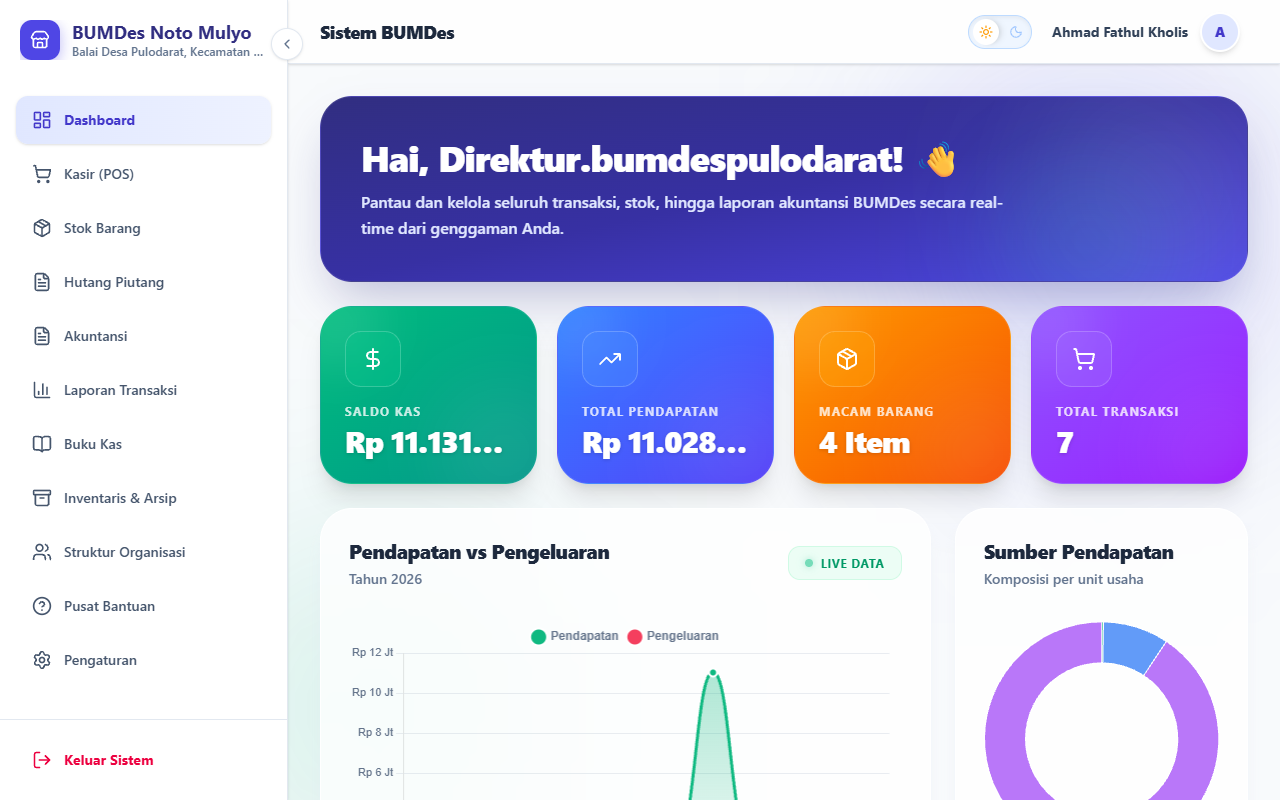
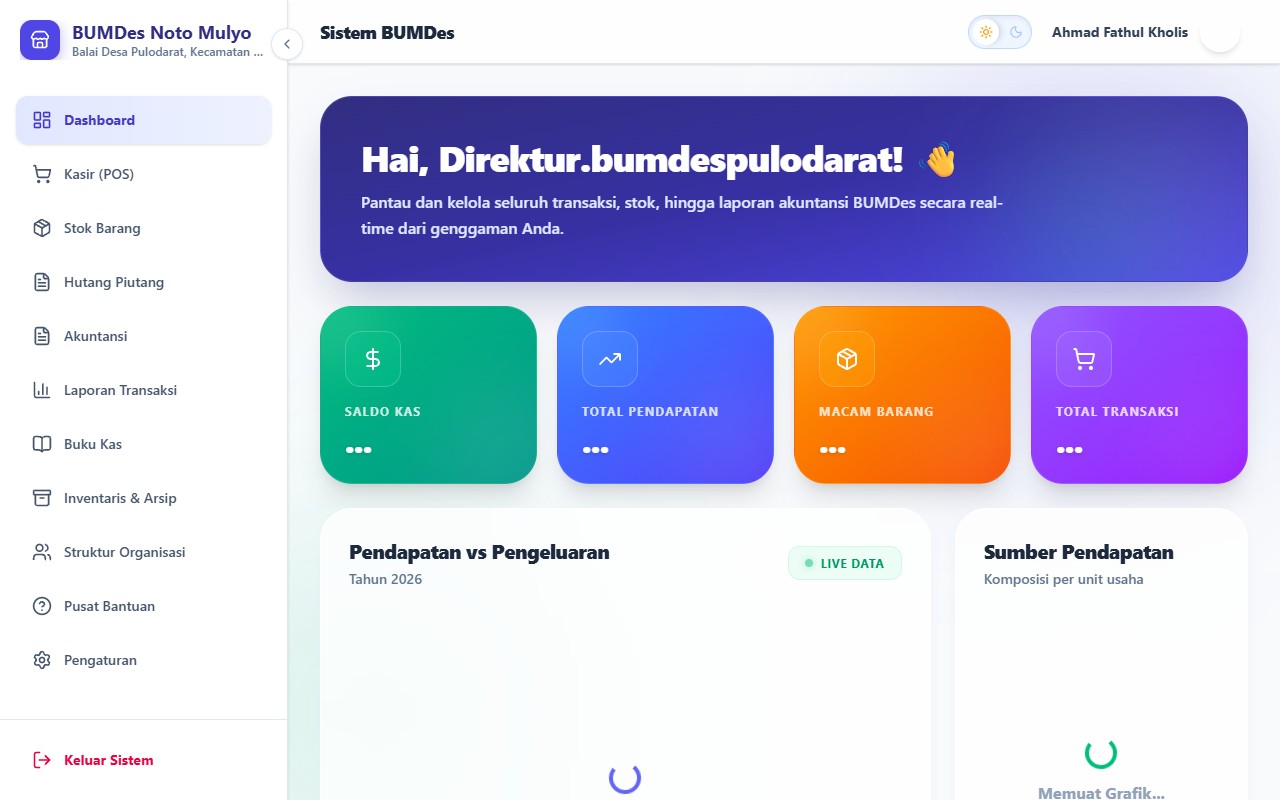
docs: sync readme and buku panduan with new profile features

diff --git a/src/pages/BukuPanduan.tsx b/src/pages/BukuPanduan.tsx
@@ -388,6 +388,31 @@ export default function BukuPanduan() {
         },
         { text: '', pageBreak: 'after' },
 
+        // BAB 8
+        { text: 'BAB 8 - PROFIL PENGGUNA & AVATAR', style: 'h1', tocItem: true },
+        
+        { text: '1. Mengatur Profil & Detail Akun', style: 'h2' },
+        { text: 'Setiap pengurus memiliki kebebasan untuk memperbarui data diri masing-masing agar sistem selalu up-to-date dan akurat.', style: 'paragraph' },
+        {
+          ol: [
+            { text: 'Klik foto profil (atau inisial nama) Anda di pojok kanan atas layar.', style: 'listItem' },
+            { text: 'Pilih menu "Profil Saya".', style: 'listItem' },
+            { text: 'Anda dapat memperbarui Nama, Email, Nomor Telepon/WhatsApp, Pendidikan Terakhir, hingga NIK KTP dan Jabatan Spesifik.', style: 'listItem' },
+            { text: 'Klik "Simpan Profil" di bagian bawah layar. Perubahan ini akan otomatis tersinkronisasi dengan menu Pengaturan dan Struktur Organisasi.', style: 'listItem' }
+          ]
+        },
+
+        { text: '2. Mengganti Foto Profil (Avatar)', style: 'h2' },
+        {
+          ol: [
+            { text: 'Di halaman Profil Saya, arahkan kursor (mouse) ke arah foto profil Anda yang berbentuk bulat.', style: 'listItem' },
+            { text: 'Klik ikon Kamera yang muncul.', style: 'listItem' },
+            { text: 'Pilih foto terbaik Anda dari komputer atau HP (Maksimal 2MB).', style: 'listItem' },
+            { text: 'Foto akan otomatis diunggah dan langsung tampil di seluruh sistem (termasuk di Bagan Struktur Organisasi).', style: 'listItem' }
+          ]
+        },
+        { text: '', pageBreak: 'after' },
+
         // GLOSARIUM & FAQ
         { text: 'GLOSARIUM (Kamus Istilah Singkat)', style: 'h1', tocItem: true },
         {

diff --git a/README.md b/README.md
@@ -64,7 +64,12 @@ Terintegrasi secara penuh dengan **Chart of Accounts (COA) 5-Level** standar BUM
 - **Notulen Rapat:** Pencatatan absensi peserta rapat, agenda, dan keputusan akhir secara digital.
 - **Dokumentasi Kegiatan:** Pengarsipan galeri foto dan rekap acara BUMDes.
 
-### 👥 8. Struktur Organisasi & Hak Akses Bertingkat (RBAC)
+### 👤 8. Profil Pengguna & Avatar Dinamis
+- **Manajemen Akun Mandiri:** Setiap pengurus bisa memperbarui detail kontak, pendidikan, NIK KTP, dan jabatan spesifik.
+- **Unggah Foto Profil (Cloud Storage):** Avatar pengguna yang diunggah akan tersimpan aman di sistem *Cloud* dan tersinkronisasi.
+- **Integrasi Bagan Organisasi:** Foto profil akan otomatis tampil pada bagan Struktur Organisasi, membuatnya lebih interaktif dan humanis.
+
+### 👥 9. Struktur Organisasi & Hak Akses Bertingkat (RBAC)
 - **Visualisasi Struktur Organisasi (Org Chart):** Tampilan hierarki cantik dari Direktur hingga staf lapis bawah secara otomatis.
 - **Manajemen Multi-User & Role Khusus:**
   - `Admin/Direktur/Bendahara`: Akses penuh pengeditan (*Superuser*).
@@ -77,7 +82,7 @@ Terintegrasi secara penuh dengan **Chart of Accounts (COA) 5-Level** standar BUM
   - Karyawan: `karyawan.bumdespulodarat@gmail.com`
   - Pengawas: `pengawas.bumdespulodarat@gmail.com`
 
-### 📖 9. Buku Panduan (SOP) Digital
+### 📖 10. Buku Panduan (SOP) Digital
 - **Built-in FAQ:** Jawaban untuk pertanyaan umum (troubleshooting dasar) tersedia langsung di dalam aplikasi.
 - **Buku Panduan PDF:** Unduh otomatis *SOP (Standard Operating Procedure)* menjadi dokumen PDF yang profesional, lengkap, dan siap cetak untuk panduan pengurus BUMDes.
 
